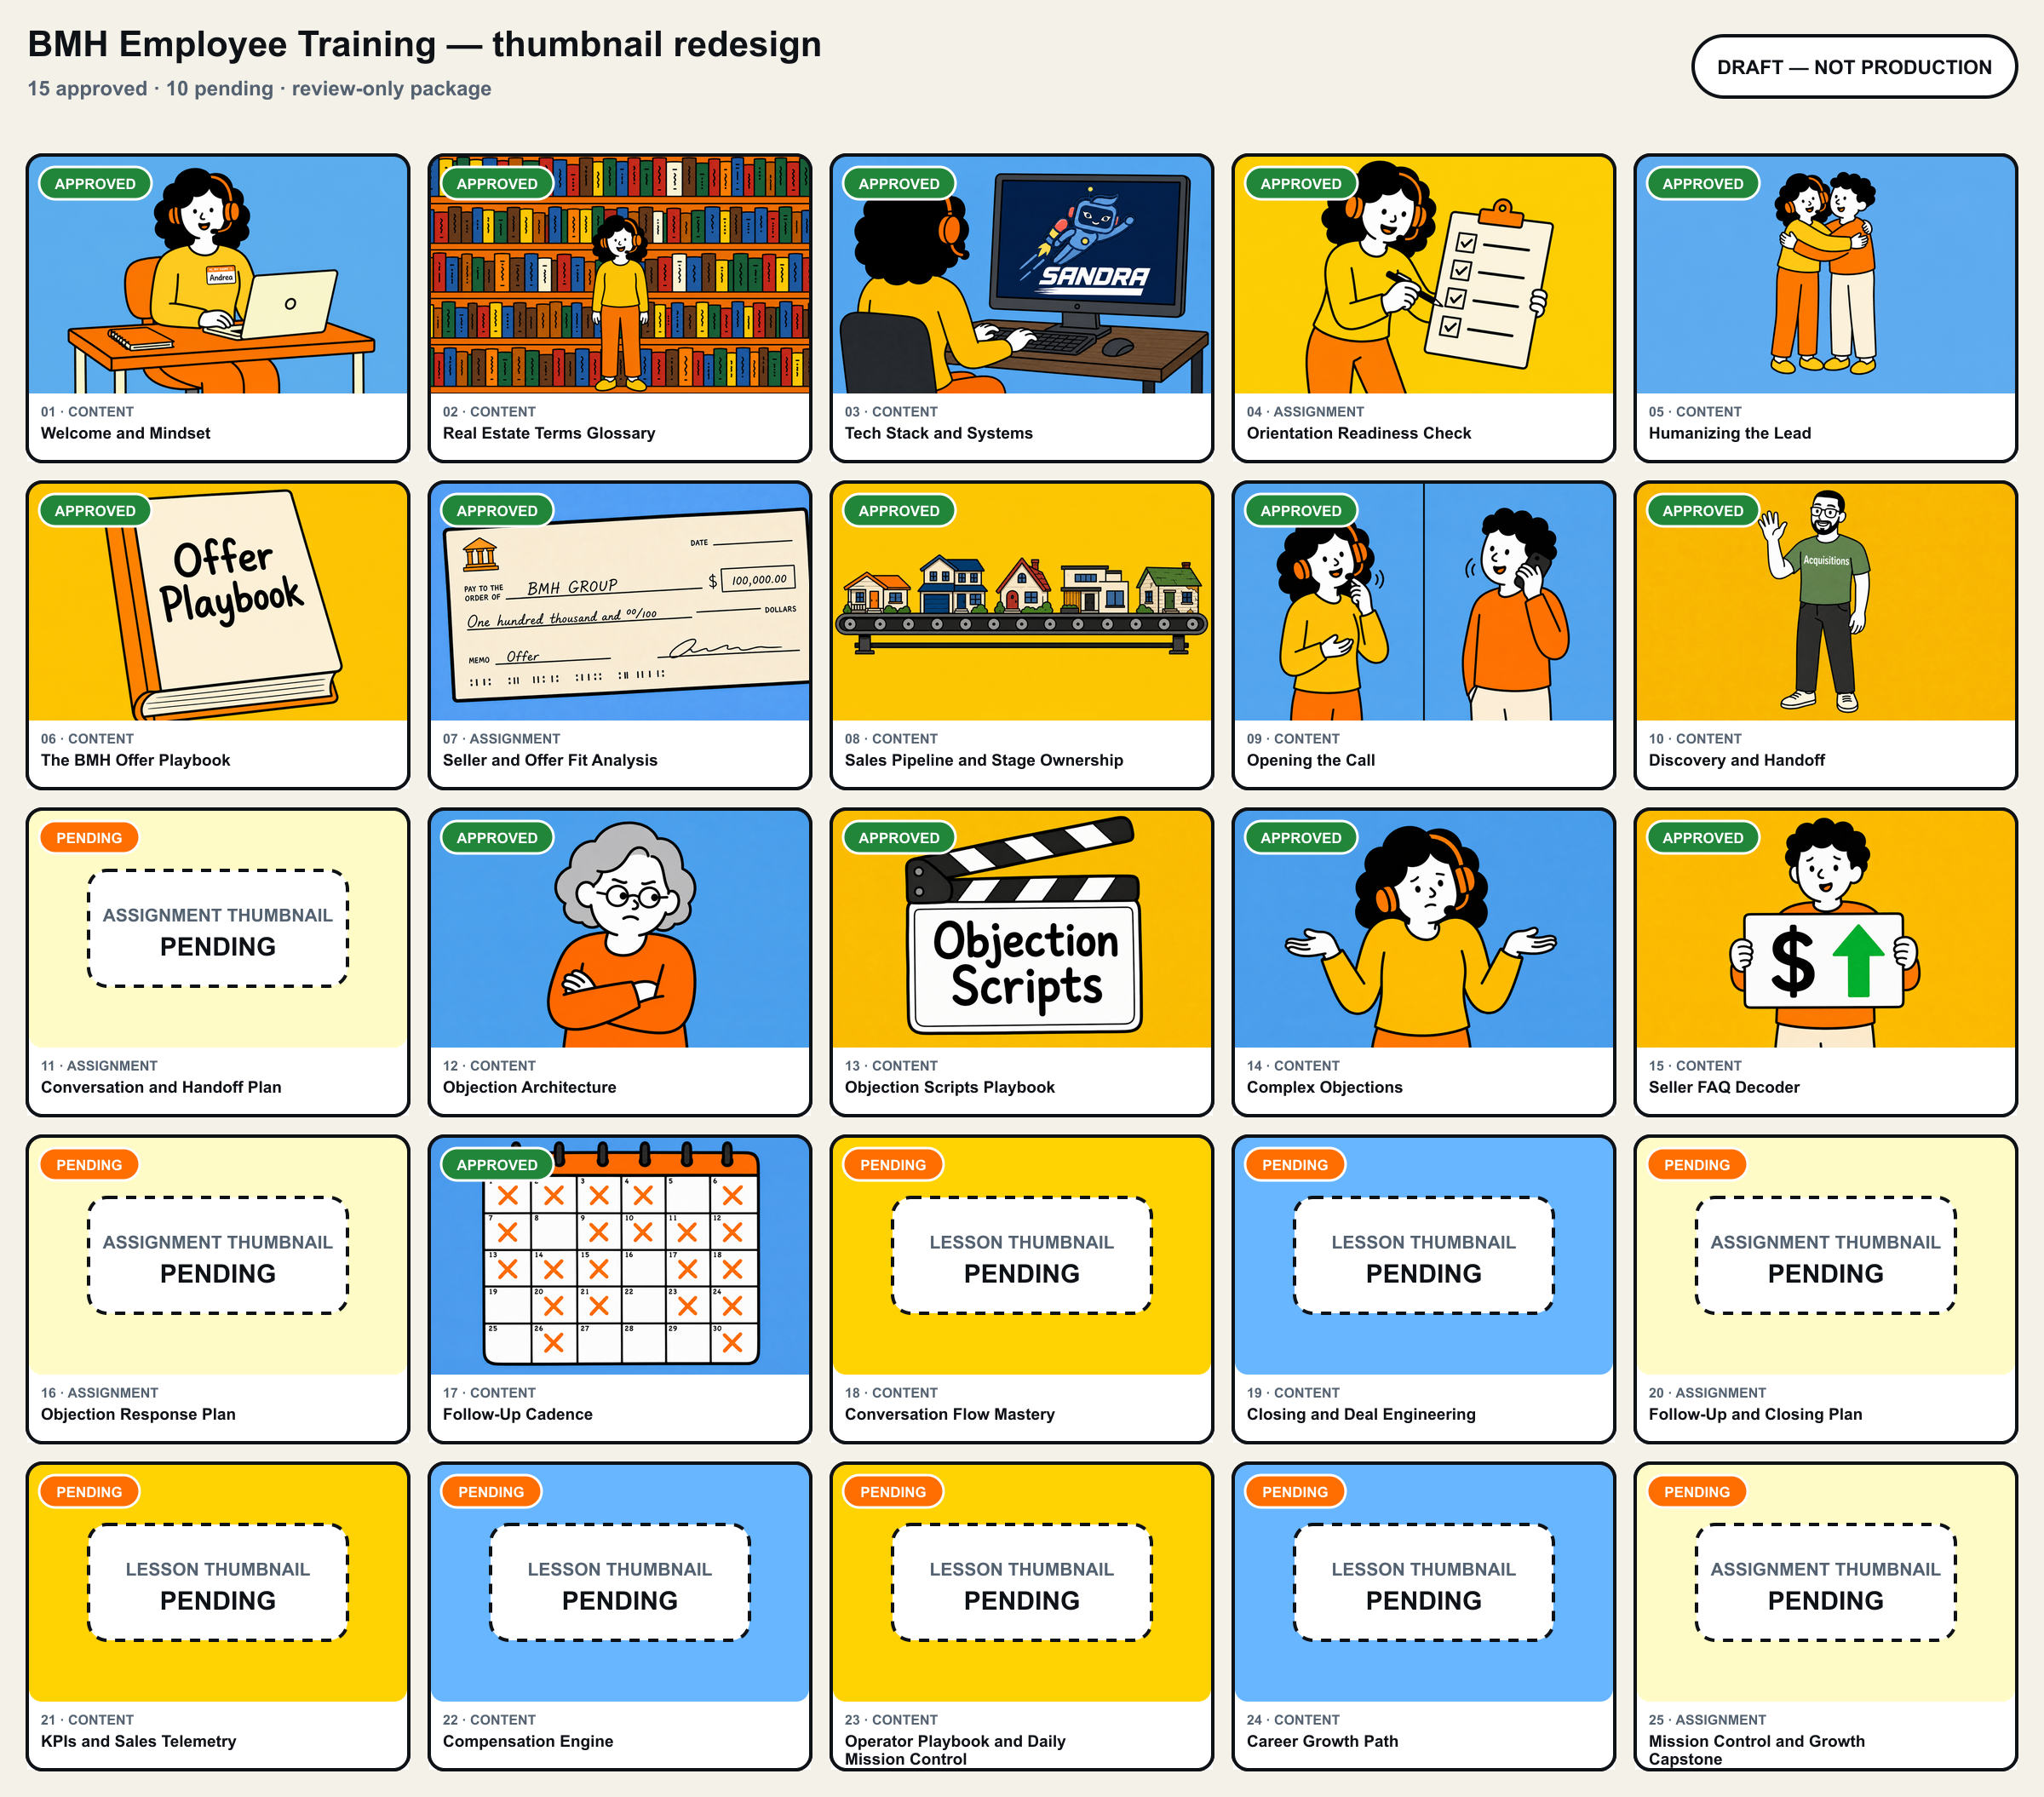
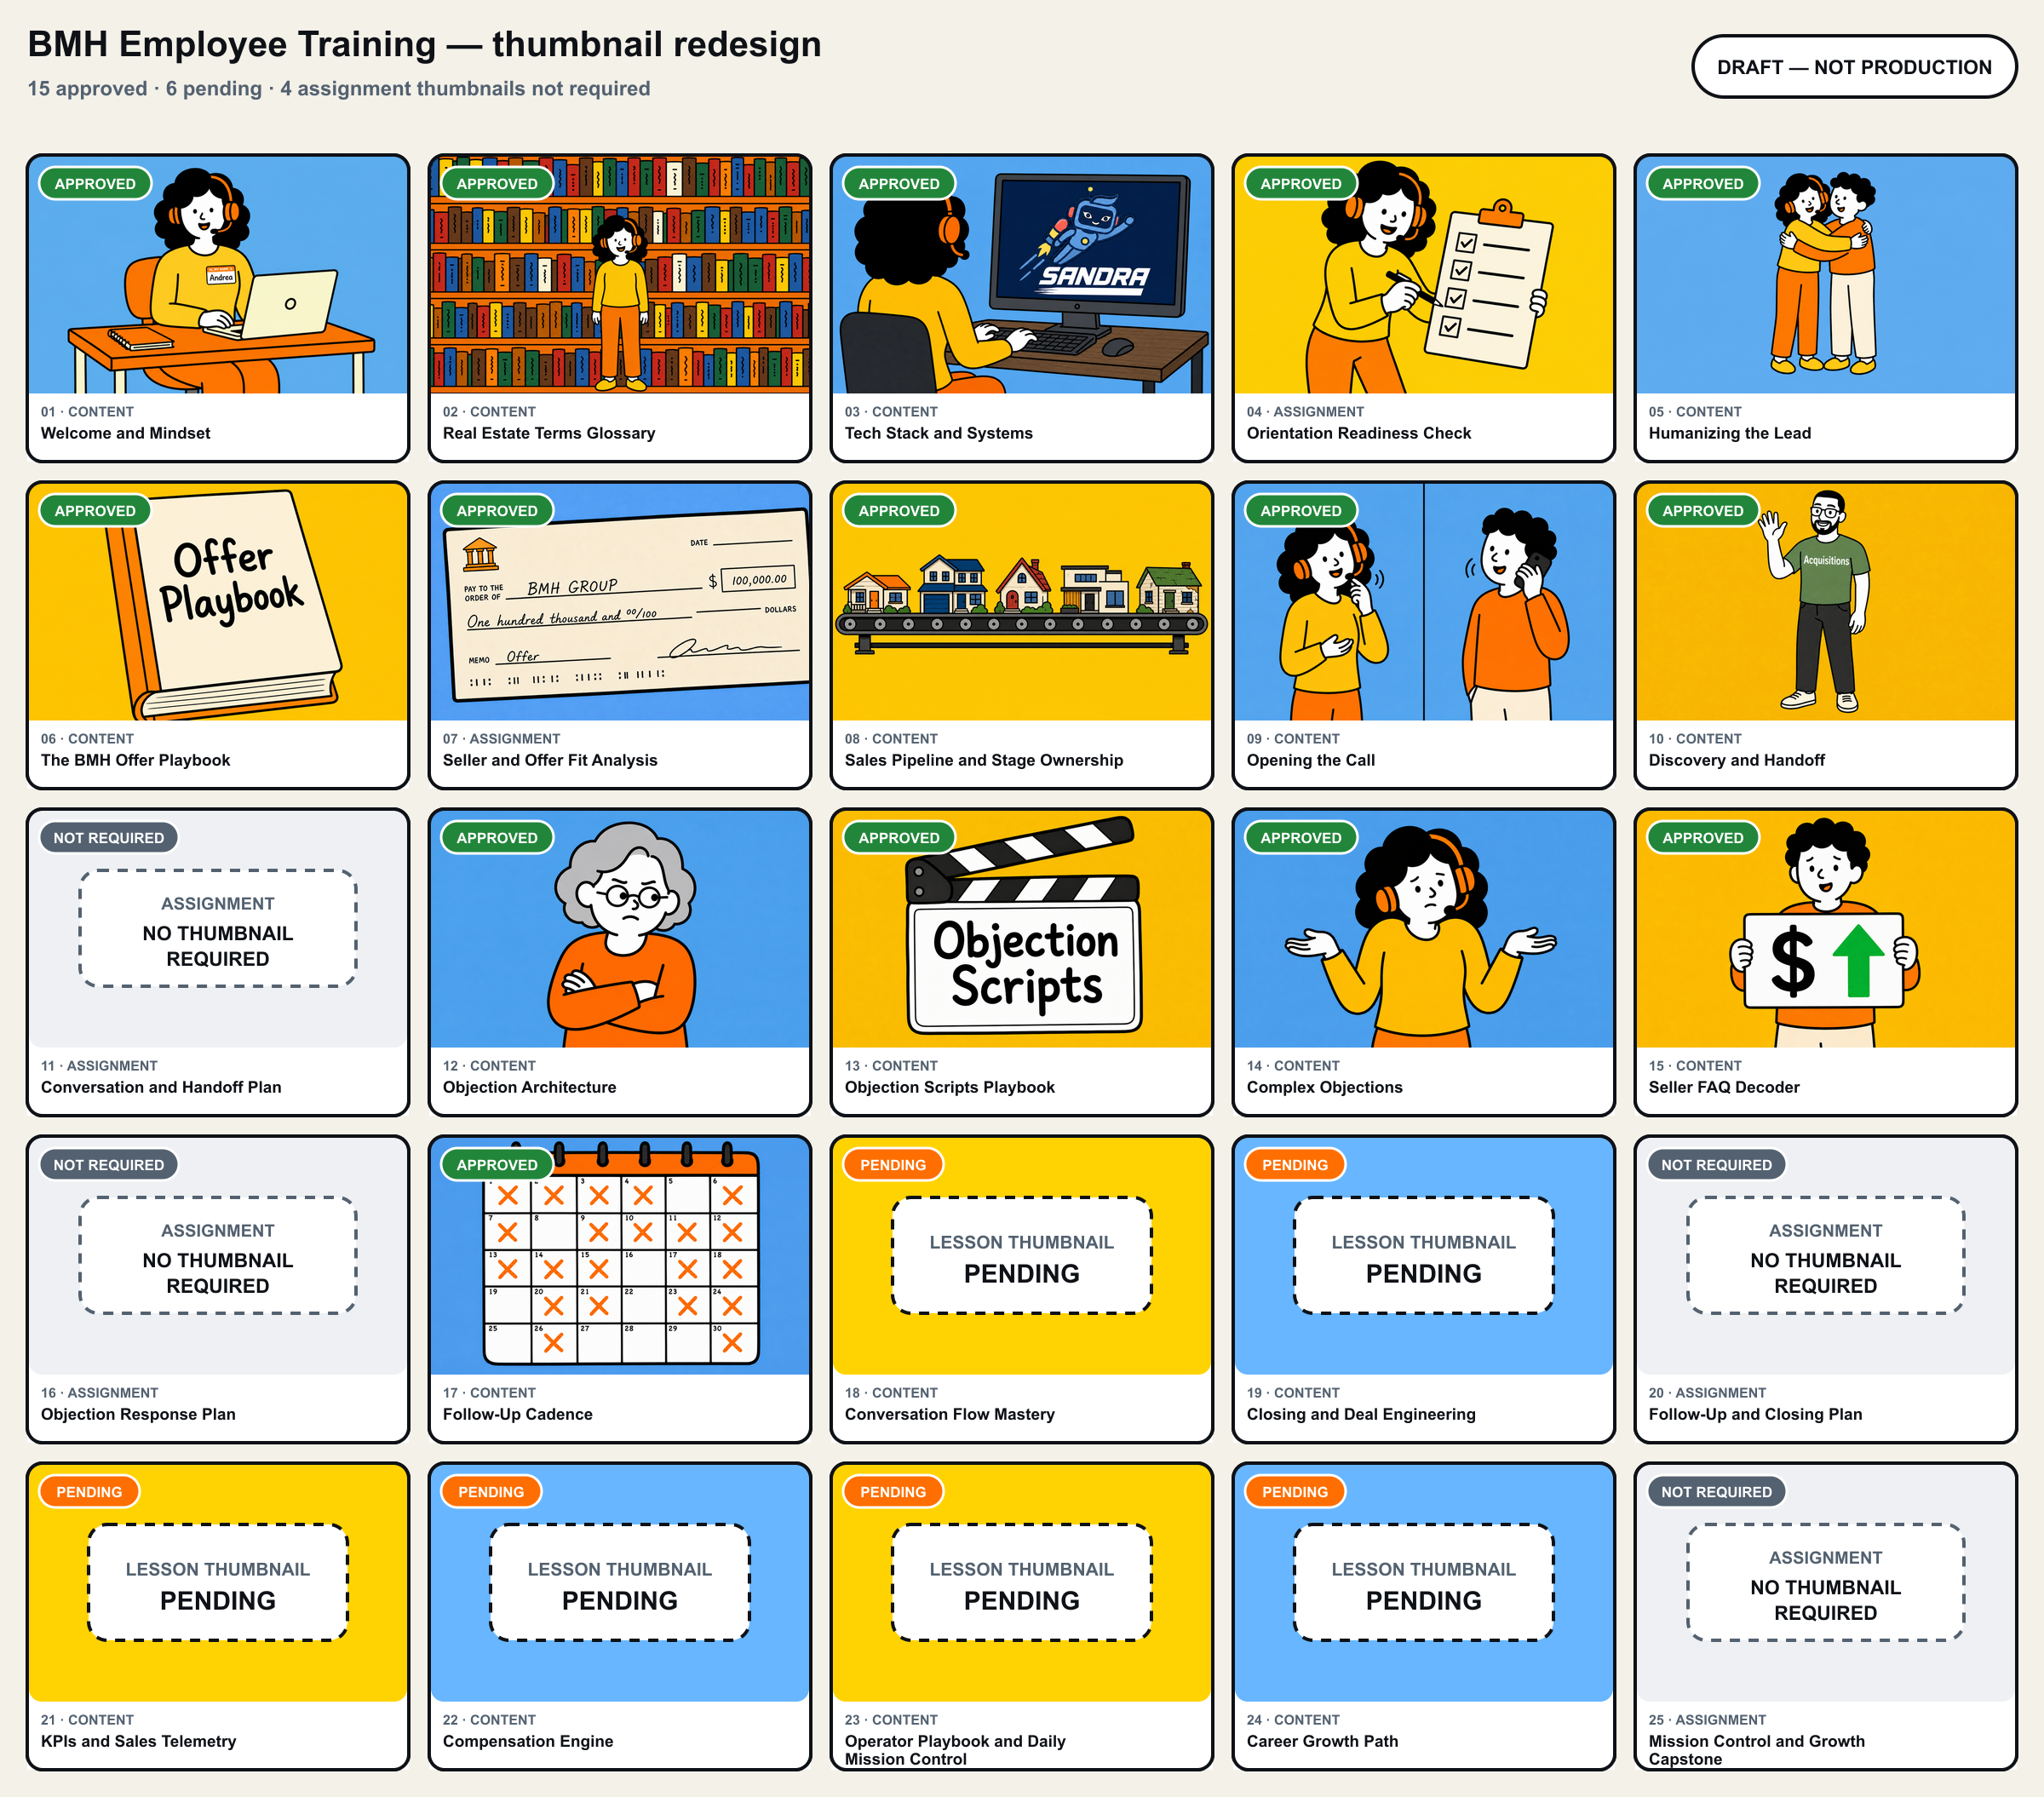
docs: exclude assignment cards from pending thumbnails

diff --git a/docs/course-production/thumbnail-redesign/README.md b/docs/course-production/thumbnail-redesign/README.md
@@ -5,7 +5,8 @@
 This is the partial review package approved in the 2026-07-20 thumbnail session.
 
 - 15 concepts are approved and preserved as their original 1280 x 800 PNG files.
-- 10 concepts are intentionally shown as `PENDING` placeholders.
+- 6 lesson concepts are intentionally shown as `PENDING` placeholders.
+- 4 remaining assignment cards are marked `NO THUMBNAIL REQUIRED` and are not part of the pending artwork count.
 - The review sequence matches the 25 learner-facing content and assignment cards.
 - This merge request does **not** replace production artwork. Production promotion remains blocked until the full set is designed, approved, converted to the canonical WebP derivatives, and rebound through the checksum-locked artwork ledger.
 
@@ -13,13 +14,9 @@ The machine-readable mapping is in [`review-index.json`](review-index.json). Che
 
 ## Pending concepts
 
-1. Conversation and Handoff Plan
-2. Objection Response Plan
-3. Conversation Flow Mastery
-4. Closing and Deal Engineering
-5. Follow-Up and Closing Plan
-6. KPIs and Sales Telemetry
-7. Compensation Engine
-8. Operator Playbook and Daily Mission Control
-9. Career Growth Path
-10. Mission Control and Growth Capstone
+1. Conversation Flow Mastery
+2. Closing and Deal Engineering
+3. KPIs and Sales Telemetry
+4. Compensation Engine
+5. Operator Playbook and Daily Mission Control
+6. Career Growth Path

diff --git a/.planning/STATE.md b/.planning/STATE.md
@@ -3,7 +3,7 @@ gsd_state_version: 1.0
 milestone: v1.1
 milestone_name: Internal Pilot Operations
 status: shipped
-stopped_at: Partial thumbnail redesign review packaged; 10 concepts remain pending before production promotion
+stopped_at: Partial thumbnail redesign review packaged; 6 lesson concepts remain pending before production promotion
 last_updated: "2026-07-20T04:50:00-05:00"
 last_activity: 2026-07-20
 progress:
@@ -28,7 +28,7 @@ See: .planning/PROJECT.md (updated 2026-04-30)
 Phase: Complete
 Plan: Complete
 Status: v1.1 shipped; post-ship QA and workflow cleanup complete
-Last activity: 2026-07-20 - Packaged 15 approved thumbnail redesigns and 10 explicit placeholders into a checksum-bound review board. Production promotion remains intentionally blocked until the pending set is approved.
+Last activity: 2026-07-20 - Packaged 15 approved thumbnail redesigns, 6 explicit placeholders, and 4 no-thumbnail-required assignment states into a checksum-bound review board. Production promotion remains intentionally blocked until the pending lesson set is approved.
 
 ## Performance Metrics
 

diff --git a/.planning/quick/20260720-approved-thumbnail-review/PLAN.md b/.planning/quick/20260720-approved-thumbnail-review/PLAN.md
@@ -6,7 +6,7 @@ date: 2026-07-20
 
 # Approved thumbnail review upload
 
-Package the 15 lesson thumbnails approved by Jarrad on 2026-07-20 into a review-only merge request. Show the full 25-card learner sequence in one contact sheet, using explicit placeholders for the 10 concepts that have not been designed or approved yet.
+Package the 15 lesson thumbnails approved by Jarrad on 2026-07-20 into a review-only merge request. Show the full 25-card learner sequence in one contact sheet, using explicit placeholders for the 6 lesson concepts that have not been designed or approved yet and marking the 4 remaining assignments as not requiring thumbnails.
 
 ## Boundaries
 
@@ -18,6 +18,6 @@ Package the 15 lesson thumbnails approved by Jarrad on 2026-07-20 into a review-
 ## Verification
 
 - All 15 approved files exist, are PNGs, and are exactly 1280 x 800.
-- The review index contains 25 unique visible positions: 15 approved and 10 pending.
+- The review index contains 25 unique visible positions: 15 approved, 6 pending, and 4 assignment thumbnails not required.
 - Every approved index entry has a matching file and SHA-256 checksum.
 - The generated contact sheet is reproducible from the index and source files.

diff --git a/.planning/quick/20260720-approved-thumbnail-review/SUMMARY.md b/.planning/quick/20260720-approved-thumbnail-review/SUMMARY.md
@@ -7,13 +7,13 @@ implementation_commit: 69ba1a9
 
 # Approved thumbnail review upload summary
 
-Uploaded a review-only package containing the 15 lesson and assignment thumbnails approved by Jarrad on 2026-07-20. Added a deterministic 25-card contact sheet with explicit placeholders for the 10 pending concepts and a machine-readable evidence file binding each approved PNG to its dimensions, byte size, and SHA-256 checksum.
+Uploaded a review-only package containing the 15 lesson and assignment thumbnails approved by Jarrad on 2026-07-20. Added a deterministic 25-card contact sheet with explicit placeholders for the 6 pending lesson concepts, `NO THUMBNAIL REQUIRED` states for the 4 remaining assignments, and a machine-readable evidence file binding each approved PNG to its dimensions, byte size, and SHA-256 checksum.
 
 Production artwork was intentionally left unchanged. The current production ledger is finalized and checksum-bound; promotion will happen only after the remaining concepts are designed and the complete set passes the existing artwork release workflow.
 
 ## Verification
 
-- `npm run artwork:redesign-review` — passed; 15 approved and 10 pending.
+- `npm run artwork:redesign-review` — passed; 15 approved, 6 pending, and 4 assignments not requiring thumbnails.
 - `npm run lint -- scripts/course-content/build-thumbnail-redesign-review.mjs` — passed.
 - `npm run verify` — passed; 150 unit files / 901 tests and 36 RTL files / 107 tests.
 - Manual review of the generated 2400 x 2110 contact sheet — passed.